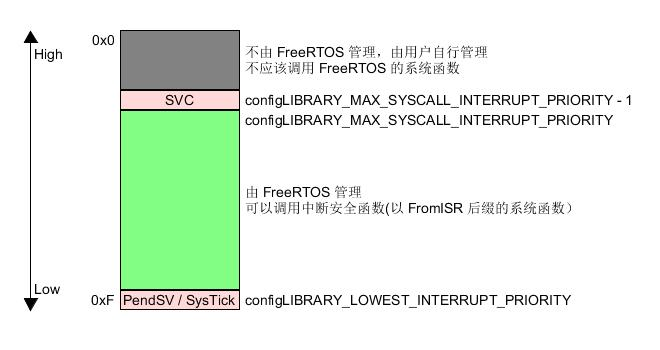
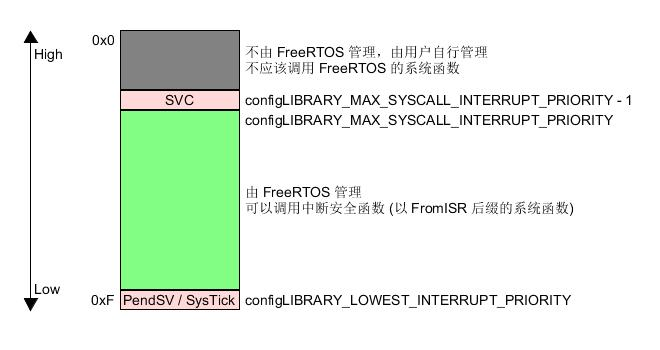
Update 2023-10-22-Notes-FreeRTOS-Interrupt-priority.md Update 2023-10-22-Notes-FreeRTOS-List-xpendingreadylist.md

Changed region(s): [[0.5758, 0.5714, 0.8788, 0.6286]]

diff --git a/Notes/FreeRTOS/2023-10-22-Notes-FreeRTOS-Interrupt-priority.md b/Notes/FreeRTOS/2023-10-22-Notes-FreeRTOS-Interrupt-priority.md
@@ -1,0 +1,35 @@
+# 中断优先级
+
+**FreeRTOS** 对中断优先级的整体要求如下：
+
+![interrupt priority][1]
+
+### User Interrupt Priority
+
+ - 中断优先级值越小，优先级越高。
+
+ - 小于值 **configLIBRARY_MAX_SYSCALL_INTERRUPT_PRIORITY** 的中断由用户自行管理，不应该调用内核的系统函数。
+
+ - 内核只关心 **configLIBRARY_LOWEST_INTERRUPT_PRIORITY** 和 **configLIBRARY_MAX_SYSCALL_INTERRUPT_PRIORITY** 之间的中断，这部分中断可以调用中断安全函数（以 **FromISR** 后缀的系统函数）。
+
+### SVC Exception Priority
+
+ 1. 对于带 **MPU** 的 **ARM Cortex-M** 芯片，**SVC Exception** 的优先级由 **portNVIC_SVC_PRI** 定义：
+
+    ```
+    #define portNVIC_SVC_PRI    ( ( ( uint32_t ) configMAX_SYSCALL_INTERRUPT_PRIORITY - 1UL ) << 24UL )
+    ```
+
+ 2. 对于不带 **MPU** 的 **ARM Cortex-M** 芯片，**SVC Exception** 的优先级为 **0**。因为只在启动调度器时，有且只有一次使用该中断，所以内核并不需要初始化 **SVC Exception**。
+
+### PendSV Exception Priority
+
+**PendSV Exception** 必须为最低优先级，因为需要考虑到中断嵌套。如果在多个嵌套中断中同时请求上下文切换，那么应该只执行一次上下文切换程序，并且只有当所有嵌套中断完成时才执行该操作。
+
+### Systick Exception Priority
+
+**FreeRTOS** 建议以最低优先级运行 **Systick Exception**，因为需要为更实时的应用程序预留更高的优先级。
+
+但这不是必须的，有一种观点认为 **Systick Exception** 本身应该具有更高的优先级，因为只有这样才能保证任务切换的实时性。
+
+ [1]: ./images/interrupt_priority.jpg

diff --git a/Notes/FreeRTOS/2023-10-22-Notes-FreeRTOS-List-xpendingreadylist.md b/Notes/FreeRTOS/2023-10-22-Notes-FreeRTOS-List-xpendingreadylist.md
@@ -1,0 +1,33 @@
+# 特殊链表 - xPendingReadyList
+
+**FreeRTOS** 内部有很多任务链表，几乎所有的任务链表都是使用状态项 **xStateListItem** 进行挂载。只有一个特殊的任务链表 **xPendingReadyList** 是使用消息项 **xEventListItem** 进行挂载。
+
+因此该链表更像一个用于接收 **ISR** 消息的消息链表。
+
+### 为什么需要使用该链表
+
+对于 **FreeRTOS** 来说，访问临界区有三种方式：
+
+ 1. 关闭中断响应：
+
+    - **taskENTER_CRITICAL** / **taskEXIT_CRITICAL**
+
+    - **taskENTER_CRITICAL_FROM_ISR** / **taskEXIT_CRITICAL_FROM_ISR**
+
+    - **taskDISABLE_INTERRUPTS** / **taskENABLE_INTERRUPTS**
+
+ 2. 使用锁机制：
+
+    - **Semaphore**
+
+    - **Mutex**
+
+ 3. 挂起调度器：
+
+    - **vTaskSuspendAll** / **xTaskResumeAll**
+
+**FreeRTOS** 为了减少丢失中断的可能，在内核中经常使用 **vTaskSuspendAll** 的方式来访问临界区。此时内核中所有任务的状态需要被锁定，不允许被修改。
+
+这样调度器挂起期间，如果产生了中断，并且在该中断中有任务需要进入 **就绪态** 时，内核就不能将该任务直接放入等待链表中。
+
+此时内核需要使用消息项 **xEventListItem** 将任务暂存到 **xPendingReadyList** 链表中。待调度器恢复时，内核会立即把该链表中的所有任务放置到合适的等待链表中。

diff --git a/SUMMARY.md b/SUMMARY.md
@@ -46,8 +46,8 @@
 
         - Misc
             - [栈类型](Notes/FreeRTOS/2023-09-26-Notes-FreeRTOS-Stack-type.md)
-            - [中断优先级]
-            - [xPendingReadyList链表]
+            - [中断优先级](Notes/FreeRTOS/2023-10-22-Notes-FreeRTOS-Interrupt-priority.md)
+            - [特殊链表 - xPendingReadyList](Notes/FreeRTOS/2023-10-22-Notes-FreeRTOS-List-xpendingreadylist.md)
 
     - Keil
         - [如何生成反汇编文件](Notes/Keil/2023-09-24-Notes-Keil-How-to-output-disassembly-file.md)

diff --git a/Notes/FreeRTOS/2023-10-21-Notes-FreeRTOS-Memory-management.md b/Notes/FreeRTOS/2023-10-21-Notes-FreeRTOS-Memory-management.md
@@ -16,7 +16,7 @@
 
 ### heap_1.c
 
-最简单的内存管理方案，旦不允许在分配了内存后释放内存。
+最简单的内存管理方案，但不允许在分配了内存后释放内存。
 
 ### heap_2.c
 
